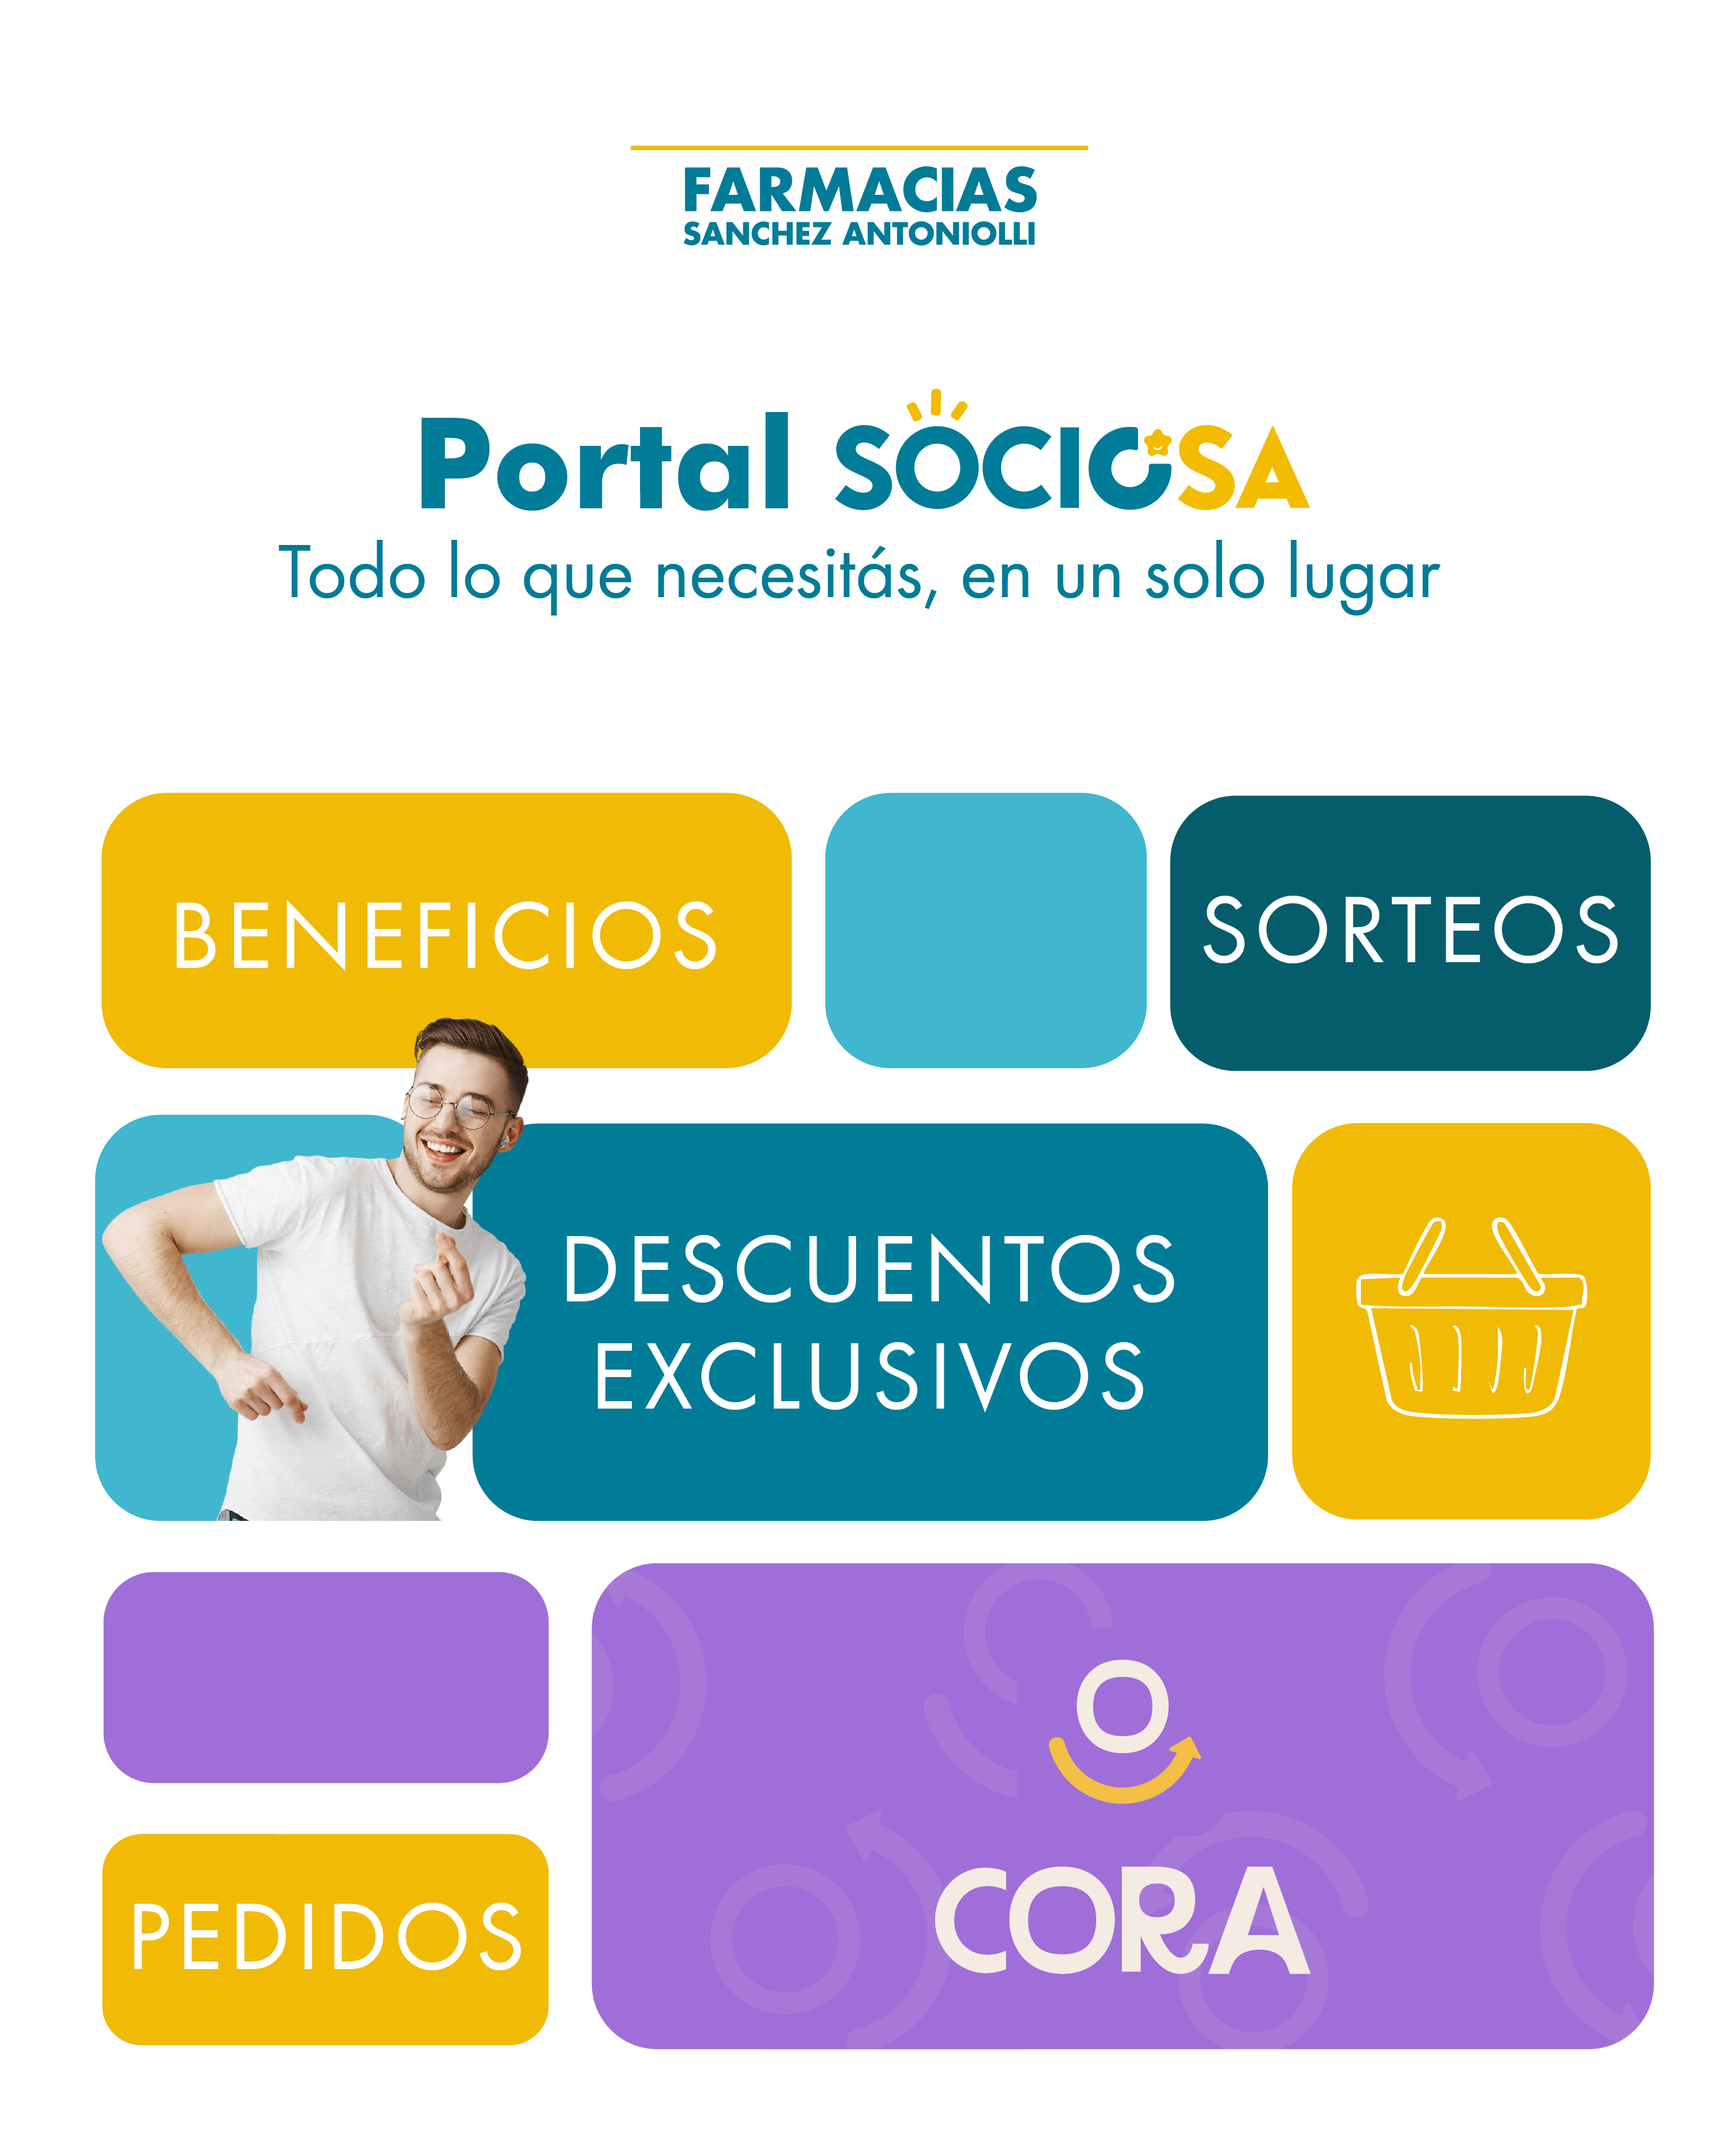
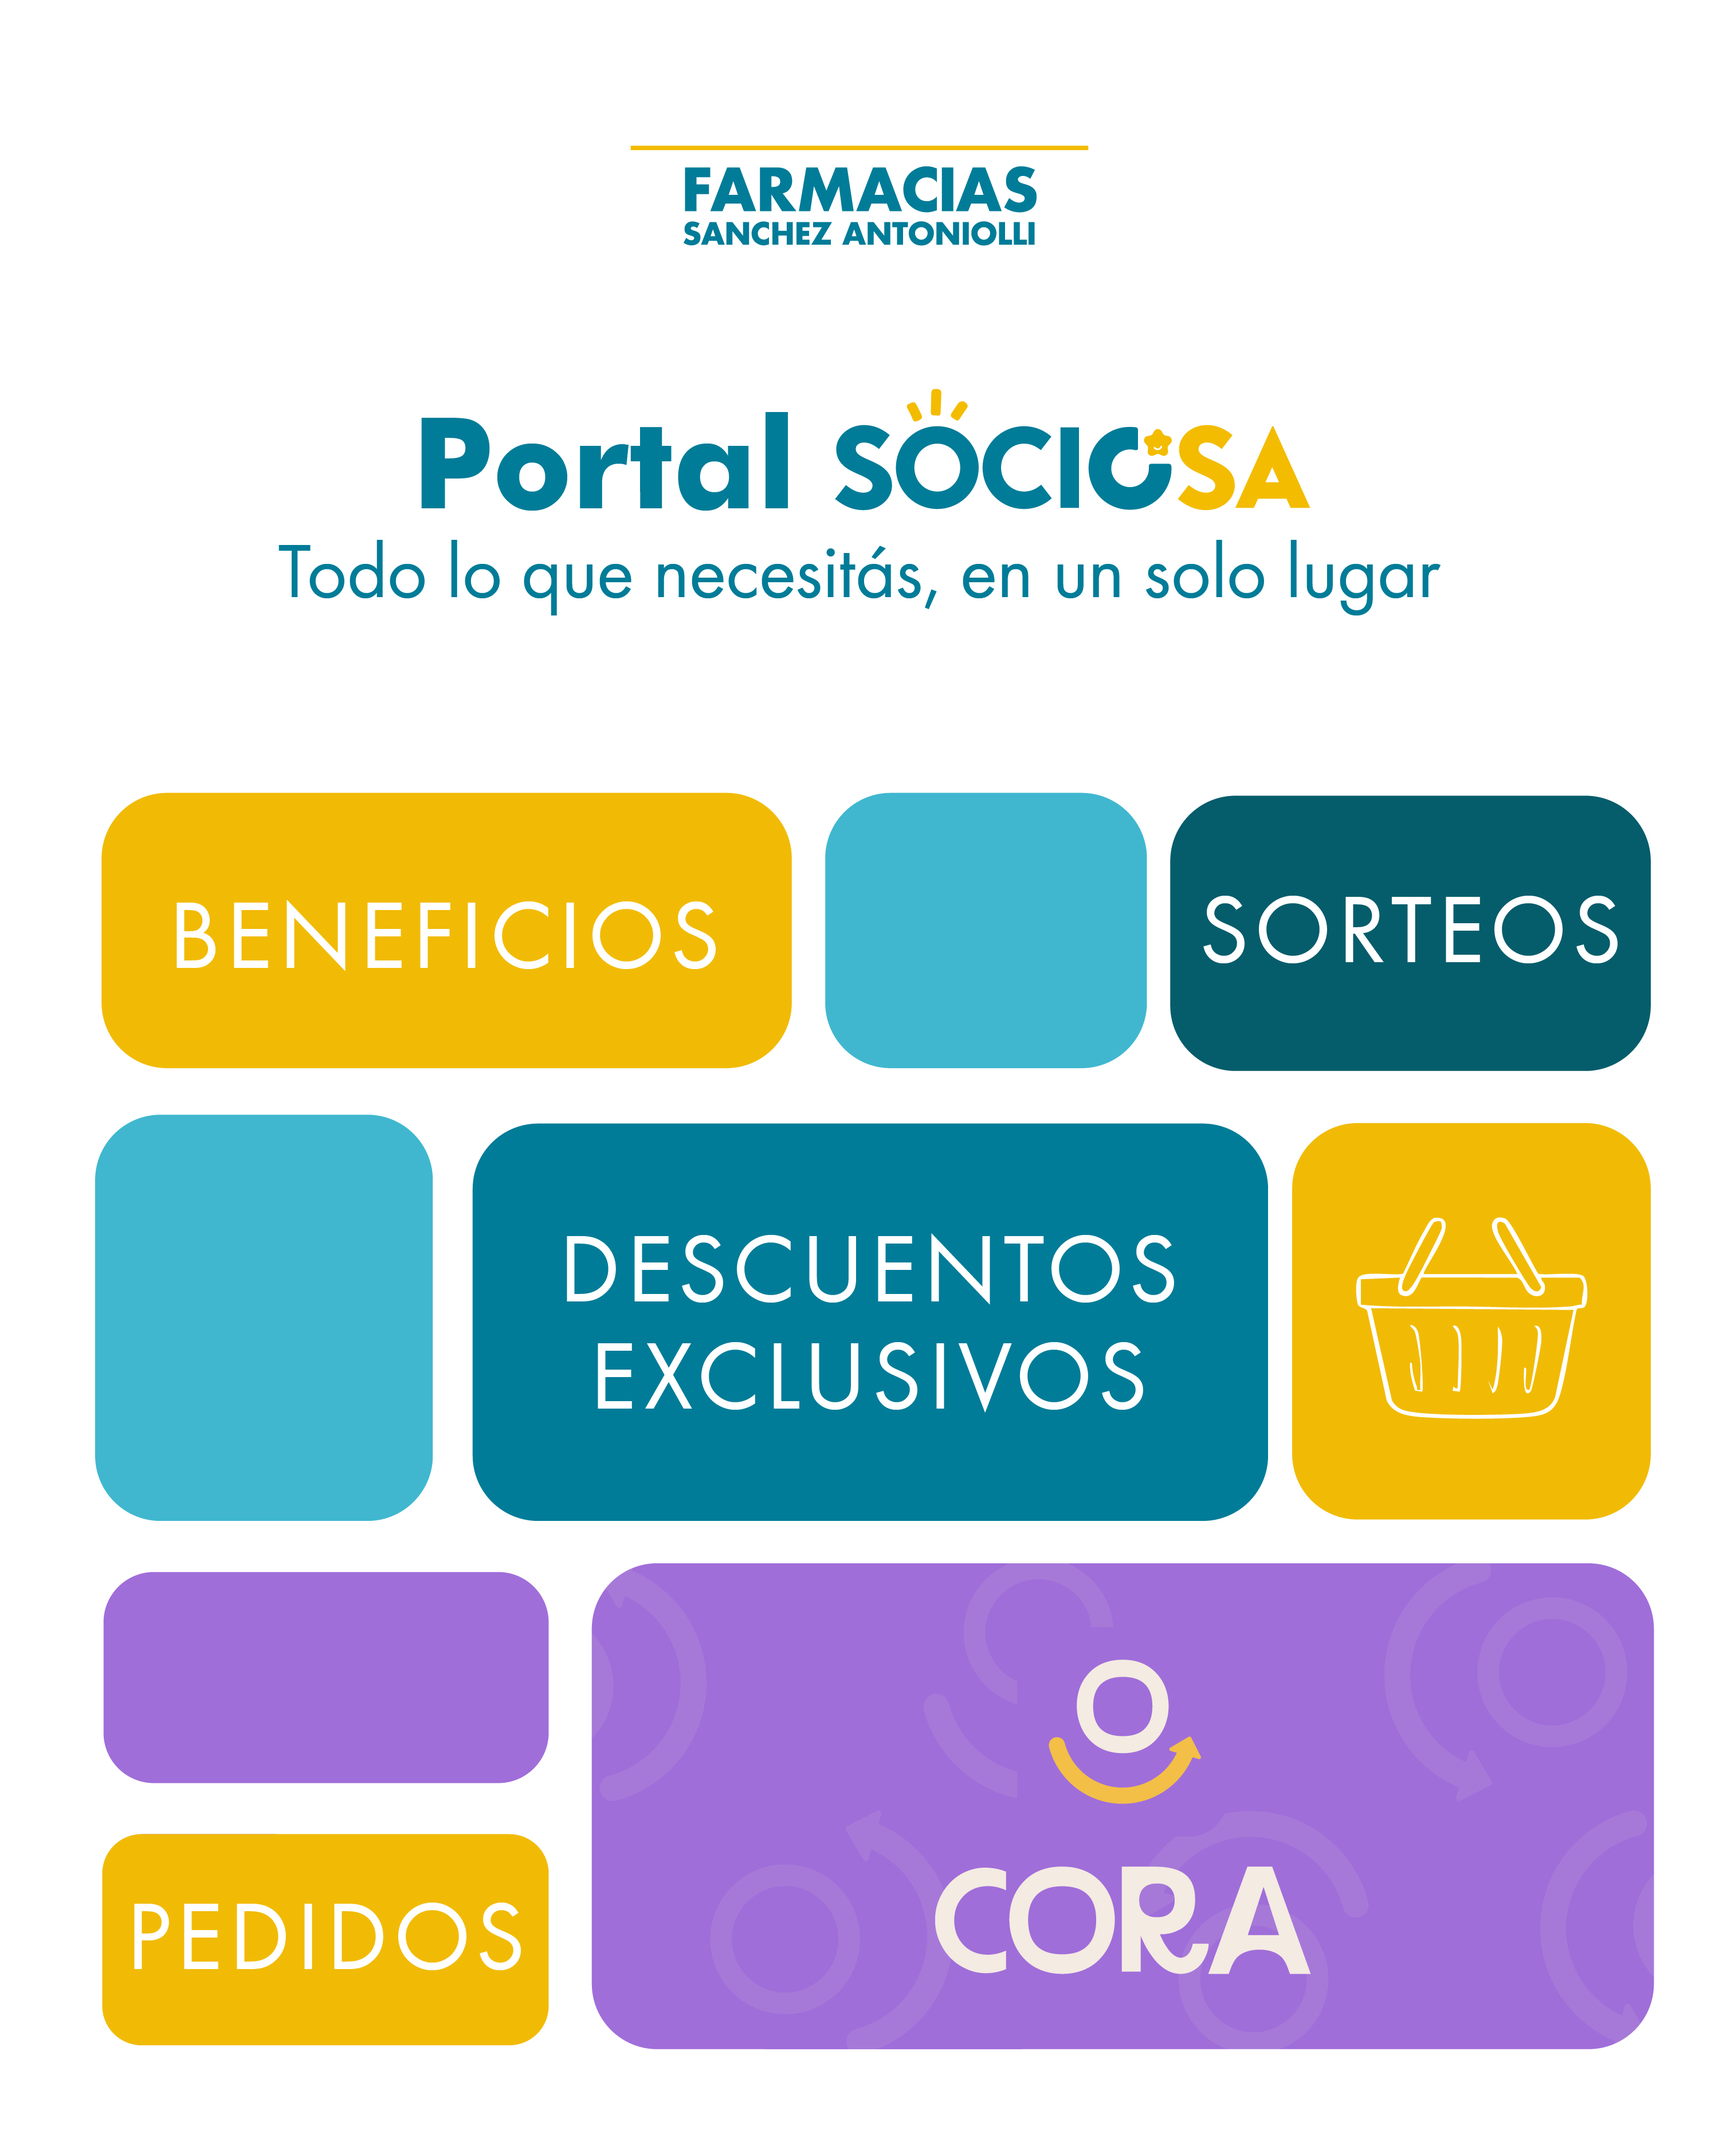
Simplify login hero panel and update images
Remove the large commented-out hero panel markup in src/components/organisms/login/login.tsx and render the portadaPrueba image directly. Delete unused asset src/assets/portada-prueba-19.jpeg and replace/update the binary for src/assets/portada-prueba-20.jpeg. Cleans up unused markup and assets for the login hero.

Changed region(s): [[0.062, 0.468, 0.31, 0.7176]]

diff --git a/src/components/organisms/login/login.tsx b/src/components/organisms/login/login.tsx
@@ -1878,60 +1878,6 @@ export function Login({ onLogin }: LoginProps) {
   return (
     <section className={styles.root}>
       <aside className={styles.heroPanel} style={{ background: "#ffffff" }}>
-        {/* Contenido original del panel — comentado temporalmente para probar portada-prueba-18
-        <div className={styles.heroBanner} aria-hidden="true">
-          <Image
-            src={loginBackground}
-            alt=""
-            fill
-            style={{ objectFit: "cover" }}
-            priority
-          />
-        </div>
-        <div className={styles.heroContent}>
-          <Image
-            src={loginLogo}
-            alt="Farmacias Sanchez Antoniolli"
-            width={160}
-            height={54}
-            className={styles.heroLogo}
-            priority
-          />
-          <div className={styles.heroCenter}>
-            <div className={styles.sociosaPromo}>
-              <span className={styles.sociosaPromoText}>
-                Portal exclusivo para
-              </span>
-              <Image
-                src={sociosaBlanco}
-                alt="SocioSA"
-                width={160}
-                height={50}
-                className={styles.sociosaLogo}
-              />
-            </div>
-            <h2 className={styles.heroTitle}>Todo en un solo lugar</h2>
-            <ul className={styles.benefitsList}>
-              {SOCIOS_BENEFITS.map((benefit) => (
-                <li key={benefit.text} className={styles.benefitItem}>
-                  <Image
-                    src={benefit.icon}
-                    alt=""
-                    width={88}
-                    height={88}
-                    className={styles.benefitIcon}
-                    unoptimized
-                  />
-                  <span>{benefit.text}</span>
-                </li>
-              ))}
-            </ul>
-          </div>
-        </div>
-        <p className={styles.heroFooter}>
-          © 2026 Farmacias Sanchez Antoniolli - Todos los derechos reservados
-        </p>
-        */}
         <Image
           src={portadaPrueba}
           alt=""
